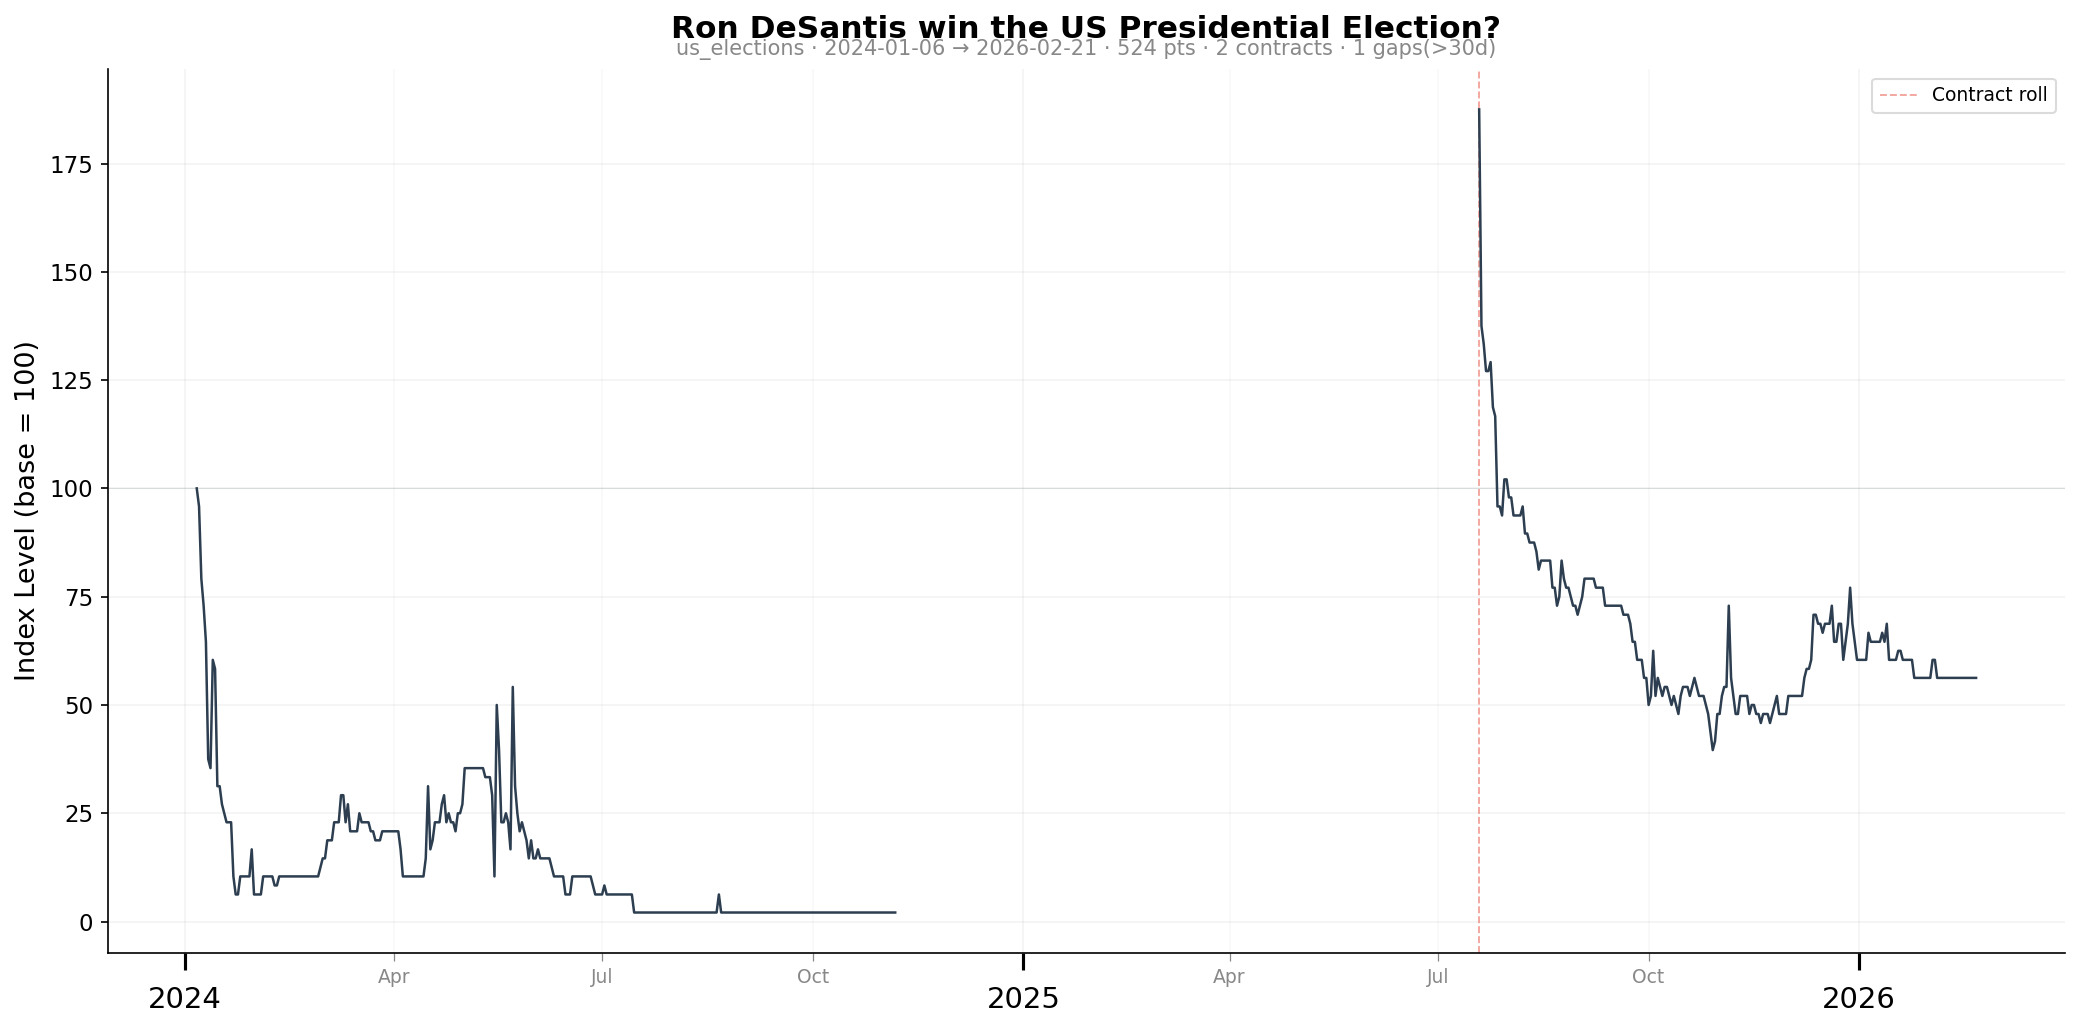
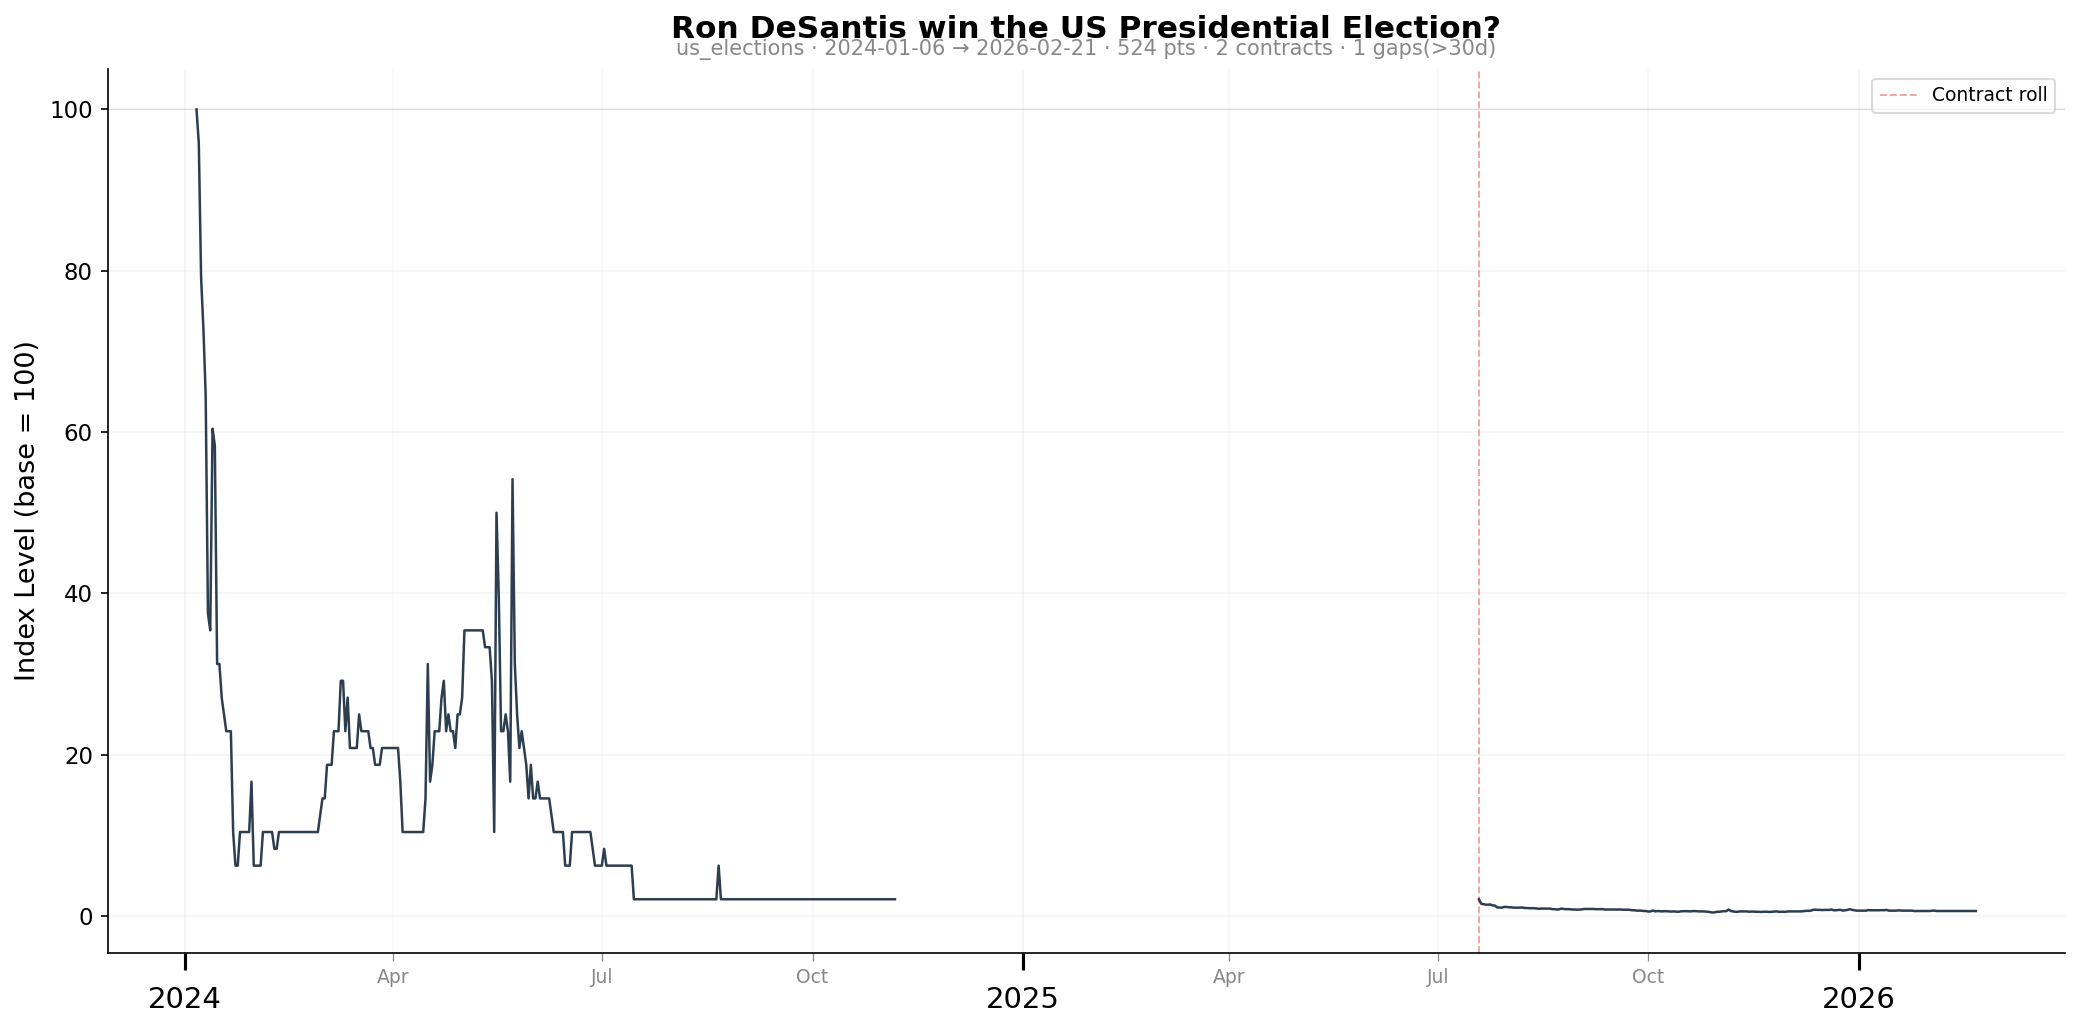
fix: chain index level across contract rolls, no more spike at roll points

diff --git a/run.py b/run.py
@@ -431,12 +431,20 @@ def main():
         data = ts[ts['ticker_id'] == tid].sort_values('date').reset_index(drop=True)
         m = ticker_meta[tid]
         
-        # Build index (base 100) from raw price
-        first_price = data['price'].iloc[0]
-        if first_price <= 0:
-            first_price = data['price'][data['price'] > 0].iloc[0] if (data['price'] > 0).any() else 0.01
+        # Build index (base 100) with reset at each contract roll
+        # Each contract segment starts at 100, chained multiplicatively
+        index_values = pd.Series(dtype=float, index=data.index)
+        cusip_groups = (data['active_cusip'] != data['active_cusip'].shift(1)).cumsum()
+        chain_level = 100.0
         
-        index_values = 100.0 * data['price'] / first_price
+        for seg_id, seg_data in data.groupby(cusip_groups):
+            seg_first = seg_data['price'].iloc[0]
+            if seg_first <= 0:
+                seg_first = seg_data['price'][seg_data['price'] > 0].iloc[0] if (seg_data['price'] > 0).any() else 0.01
+            seg_index = chain_level * seg_data['price'] / seg_first
+            index_values.loc[seg_data.index] = seg_index
+            # Chain: next segment starts where this one's last value is
+            chain_level = seg_index.iloc[-1]
         
         # Insert NaN at display gaps to break lines
         plot_dates, plot_values = insert_gap_nans(data['date'], index_values, gap_days=DISPLAY_GAP_THRESHOLD_DAYS)
